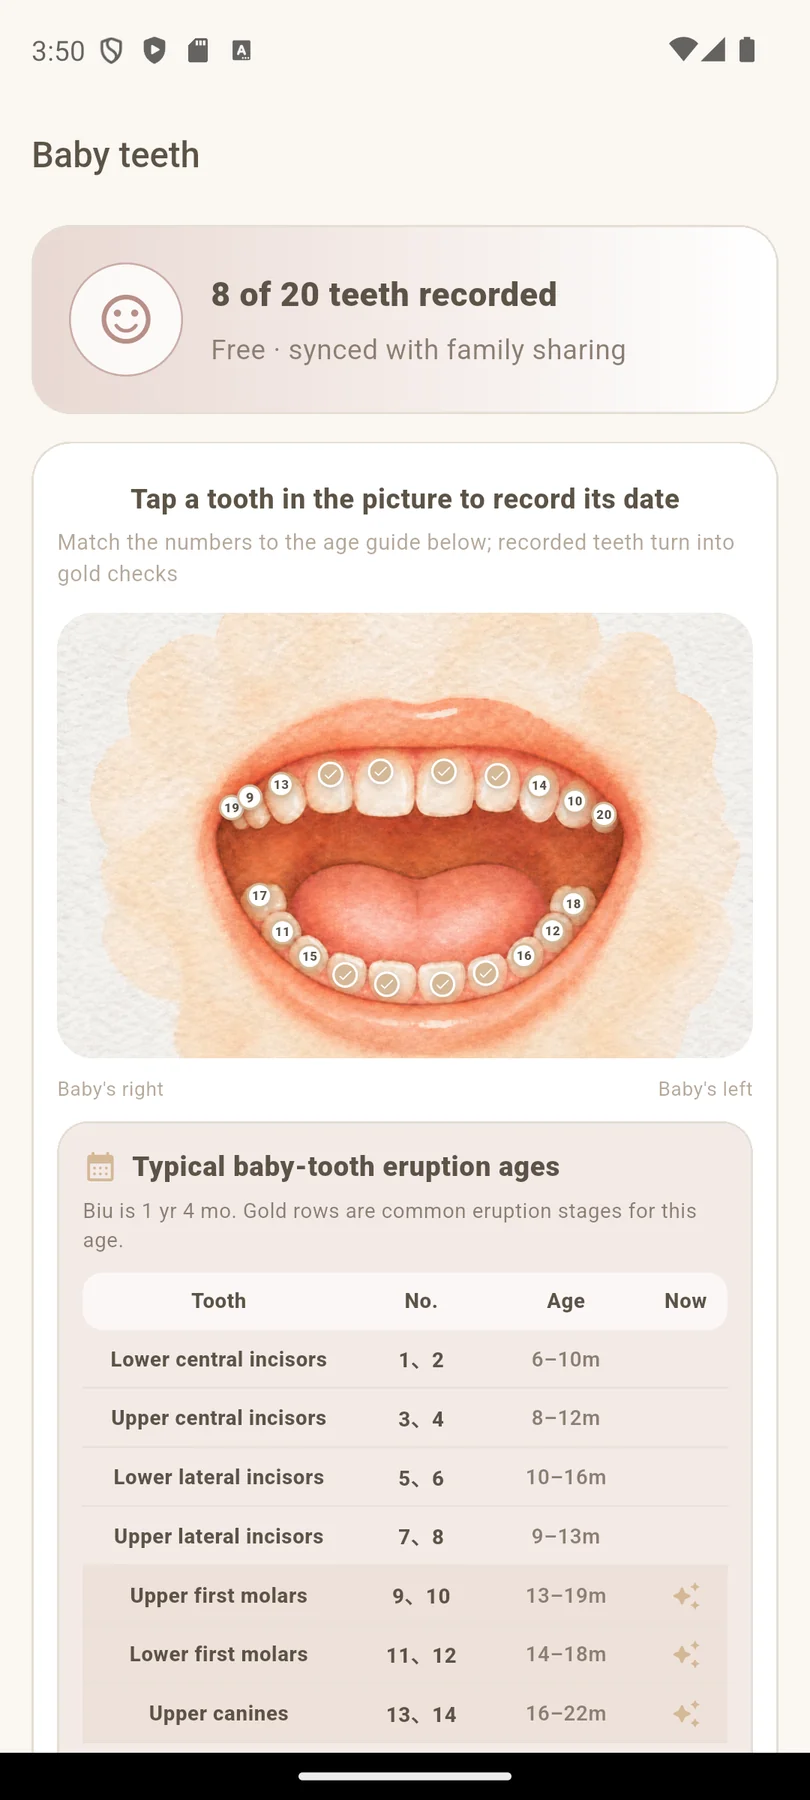
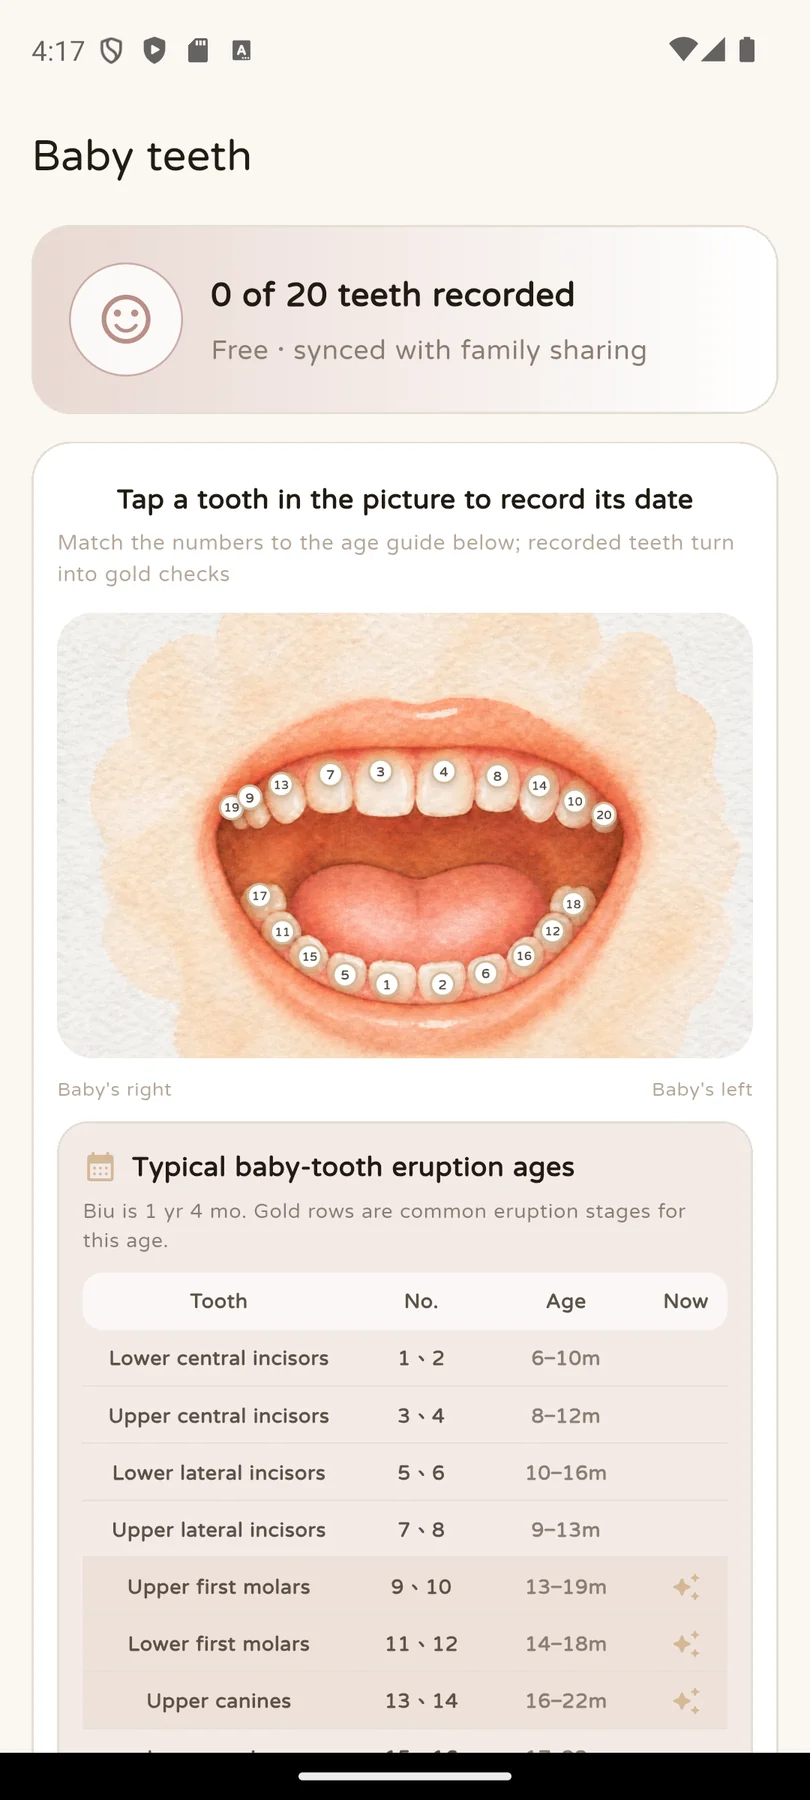
fix: clarify interactive baby teeth showcase

diff --git a/index.html b/index.html
@@ -715,6 +715,11 @@
       right: -38px;
     }
 
+    .family-photo-callout--teeth {
+      top: 42%;
+      left: -38px;
+    }
+
     .family-proof-copy strong {
       display: block;
       margin-bottom: 6px;
@@ -1095,7 +1100,10 @@
             <div class="family-proof-copy"><strong data-i18n="familyProofFourTitle">疫苗時程與提醒，依所在地整理</strong><p data-i18n="familyProofFourText">依所在地提供參考時程，集中管理完成狀態、接種日與下一劑；實際接種仍依醫師與官方指引。</p></div>
           </article>
           <article class="family-proof-card">
-            <figure class="family-proof-phone"><img loading="lazy" decoding="async" data-showcase-shot="family-teeth" src="/assets/showcase/zh/family-teeth.webp" alt="BiuLog 乳牙位置、編號與萌出月齡紀錄" width="810" height="1800"></figure>
+            <figure class="family-proof-phone">
+              <img loading="lazy" decoding="async" data-showcase-shot="family-teeth" src="/assets/showcase/zh/family-teeth.webp" alt="BiuLog 乳牙位置、編號與萌出月齡紀錄" width="810" height="1800">
+              <figcaption class="family-photo-callout family-photo-callout--teeth" data-i18n="teethTapCallout">可以點選牙齒進行紀錄</figcaption>
+            </figure>
             <div class="family-proof-copy"><strong data-i18n="familyProofFiveTitle">乳牙位置、編號與萌出月齡，一眼看懂</strong><p data-i18n="familyProofFiveText">直接點嘴巴裡的牙齒記錄日期；未記錄顯示編號，完成後變成勾選，並附常見萌出月齡參考。</p></div>
           </article>
           <article class="family-proof-card">
@@ -1208,6 +1216,7 @@
         familyProofPillThree: "日常與長期紀錄分層",
         familyPhotoCallout: "按鈕圖片可換成寶寶的可愛照片",
         handbookPhotoCallout: "成長手冊按鈕也能換成自己的照片",
+        teethTapCallout: "可以點選牙齒進行紀錄",
         familyProofOneTitle: "日常照護，單手就能記",
         familyProofOneText: "喝奶、尿布、睡眠、副食品與體溫等事件從首頁直接新增，過去的資料長按即可補登。",
         familyProofTwoTitle: "一頁收好長期成長",
@@ -1312,6 +1321,7 @@
         familyProofPillThree: "Daily and long-term records organized",
         familyPhotoCallout: "Use your baby's photos on Home buttons",
         handbookPhotoCallout: "Handbook buttons can use your own photos too",
+        teethTapCallout: "Tap any tooth to record it",
         familyProofOneTitle: "One-handed daily care logging",
         familyProofOneText: "Add feeding, diapers, sleep, solids, temperature, and other events from Home; long-press to backfill earlier records.",
         familyProofTwoTitle: "Long-term growth in one place",
@@ -1412,6 +1422,7 @@
         familyProofPillThree: "日常と長期記録を整理",
         familyPhotoCallout: "ホームのボタン画像をお子さまの写真に変更",
         handbookPhotoCallout: "成長手帳のボタンにも写真を設定できます",
+        teethTapCallout: "歯をタップして記録できます",
         familyProofOneTitle: "毎日のケアを片手で記録",
         familyProofOneText: "授乳、おむつ、睡眠、離乳食、体温などをホームから追加し、過去の記録は長押しで入力できます。",
         familyProofTwoTitle: "長期の成長を一画面に",
@@ -1512,6 +1523,7 @@
         familyProofPillThree: "일상과 장기 기록 구분",
         familyPhotoCallout: "홈 버튼 이미지를 우리 아이 사진으로 변경",
         handbookPhotoCallout: "성장 수첩 버튼에도 사진을 설정할 수 있어요",
+        teethTapCallout: "치아를 눌러 기록할 수 있어요",
         familyProofOneTitle: "한 손으로 기록하는 일상 돌봄",
         familyProofOneText: "수유, 기저귀, 수면, 이유식, 체온과 기타 사건을 홈에서 추가하고, 이전 기록은 길게 눌러 입력할 수 있습니다.",
         familyProofTwoTitle: "장기 성장을 한곳에",
@@ -1613,7 +1625,7 @@
     function updateShowcaseImages(lang) {
       const locale = screenLangMap[lang] || screenLangMap.zh;
       document.querySelectorAll("[data-showcase-shot]").forEach((image) => {
-        image.src = `/assets/showcase/${locale}/${image.dataset.showcaseShot}.webp?v=20260831`;
+        image.src = `/assets/showcase/${locale}/${image.dataset.showcaseShot}.webp?v=20260830b`;
       });
     }
 
